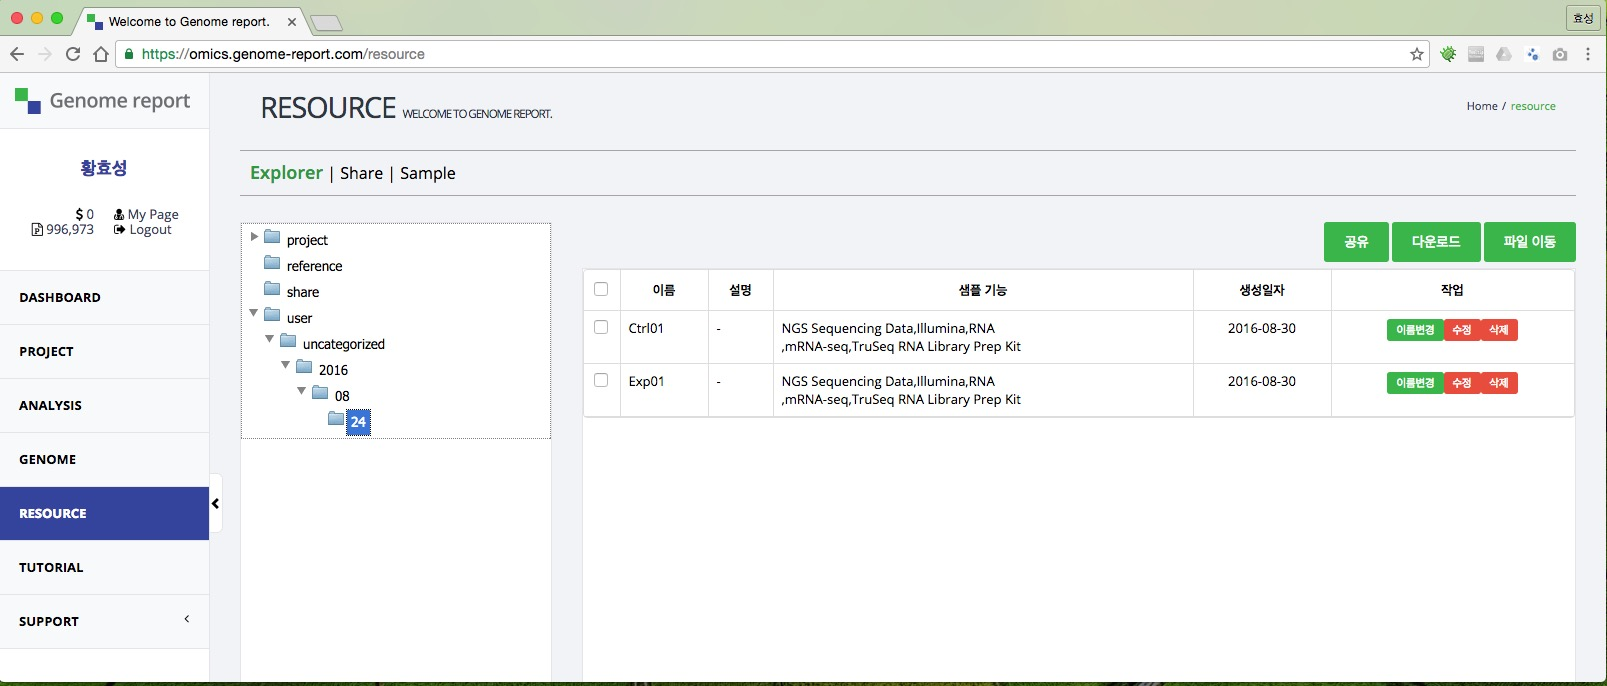
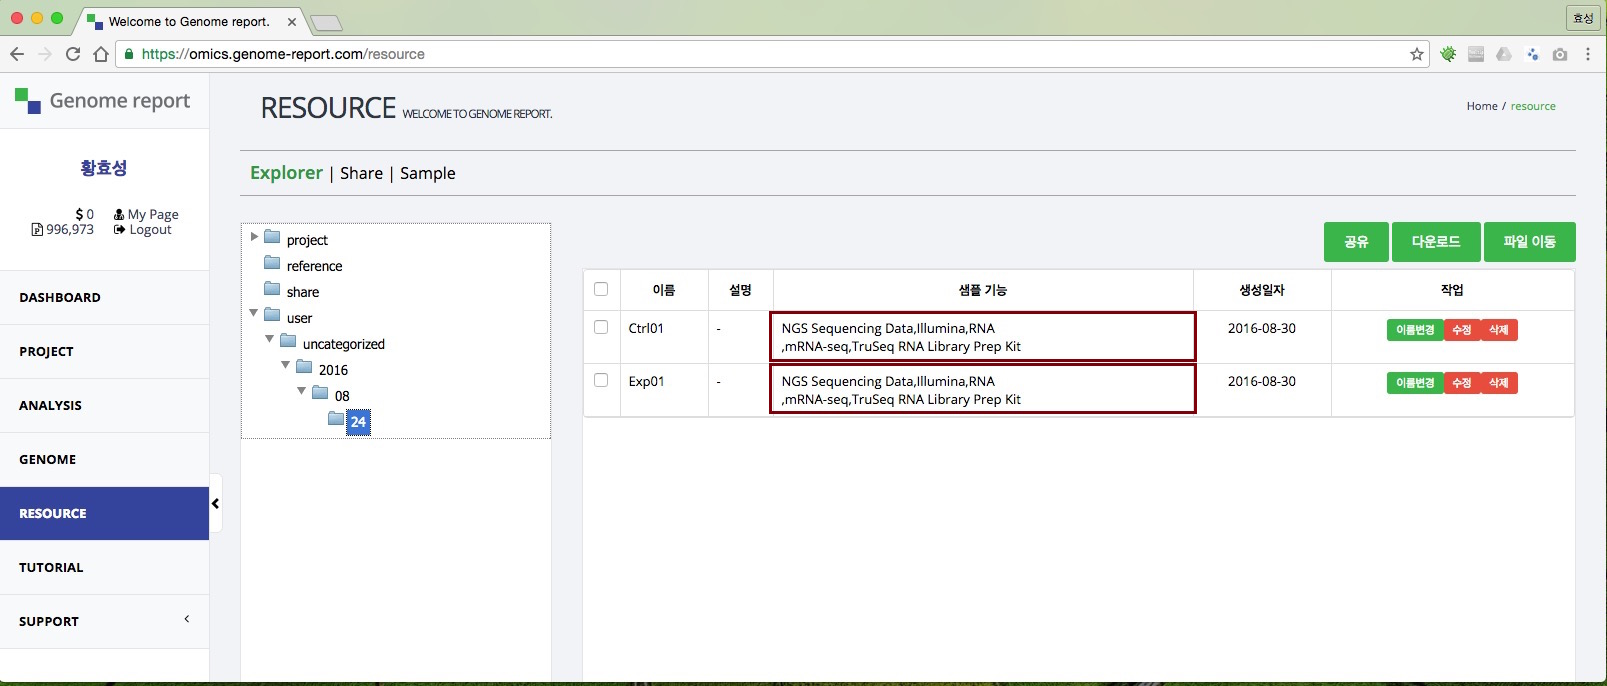
sample feature add

Changed region(s): [[0.4667, 0.5816, 0.7467, 0.6122], [0.4667, 0.5204, 0.7467, 0.551], [0.4667, 0.4286, 0.7467, 0.4592]]

diff --git a/docs/Quick_Start.md b/docs/Quick_Start.md
@@ -5,8 +5,9 @@
 3. 해독 파일 다운로드
 4. 해독 파일 업로드
 5. Sample 생성
-6. 프로젝트(분석) 요청
-7. 프로젝트 보고서 열람
+6. Sample Feature 등록
+7. 프로젝트(분석) 요청
+8. 프로젝트 보고서 열람
 
 ### 1. 회원가입
 1. Genome report  <a href="https://omics.genome-report.com/member" target="_blank"> 회원 가입</a> 사이트를 방문합니다.
@@ -99,8 +100,20 @@
      [TIP]마법사 이용시 "샘플명은 필수 입력입니다" 라는 메세지가 나오면 사용자가 직접 "샘플명"을 입력하면 됩니다.
       ````
 
+### 6. Sample Feature 등록
+1.  왼쪽 트리에서  user>>uncategorized>>YYYY>> MM>>dd(예:2016>>08>>24)를 선택합니다.
+![화면](https://github.com/genomereport/gimanual/raw/master/docs/images/sample_feature_screen1.jpg)
+2. 테이블에서 "Ctrl01" 첫번째 행의 작업 셀에서 "수정"버튼을 클릭합니다.
+    1. 아래 화면의 팝업과 같이 설정하고 저장을 합니다.
+    2. "Exp01"도 윗 작업을 반복합니다.
+ ![화면](https://github.com/genomereport/gimanual/raw/master/docs/images/sample_feature_screen2.jpg)
+3. "Ctrl01"과 "Exp01"에 sample Feature등록 완료 화면입니다.
+   1. 테이블의  "샘플기능" 컬럼에 데이타가 있습니다.
+ ![화면](https://github.com/genomereport/gimanual/raw/master/docs/images/sample_feature_screen3.jpg)
 
-### 6. 프로젝트(분석) 요청
+
+
+### 7. 프로젝트(분석) 요청
  1. 왼쪽 매뉴에서 <a href="https://omics.genome-report.com/analysis" target="_blank"> ANALYSIS</a>를 선택합니다. 사용 가능한 파이프라인 목록이 보여집니다.
 
  2. "유전자 발현량 및 발현량 차이 분석 (Tuxedo Protocol)" 파이프라인을 클릭합니다.
@@ -127,7 +140,7 @@
  [TIP]프로젝트가 완료되면 회원 가입시 등록된 메일주소로 프로젝트 진행 상황이 메일이 발송됩니다.
  ````
 
-### 7. 프로젝트 보고서 열람
+### 8. 프로젝트 보고서 열람
  1. 로그인 상태가 아니면 로그인을 합니다.
  2. <a href="https://omics.genome-report.com/project" target="_blank"> PROJECT </a>페이지로 이동합니다.
 ![화면](https://github.com/genomereport/gimanual/raw/master/docs/images/project_screen.jpg)
@@ -137,4 +150,6 @@
    [TIP]프로젝트 진행 상황 수신 메일에서도  오류 프로젝트가 있으면 Q&A에 문의를 해주세요.
   ````
  3. 테이블에서 "유전자 발현량 및 발현량 차이 분석" 제목의  프로젝트를 클릭합니다. 프로젝트 보고서 페이지로 이동합니다.
+  ![화면](https://github.com/genomereport/gimanual/raw/master/docs/images/project_screen1.jpg)
+ 5.
 
